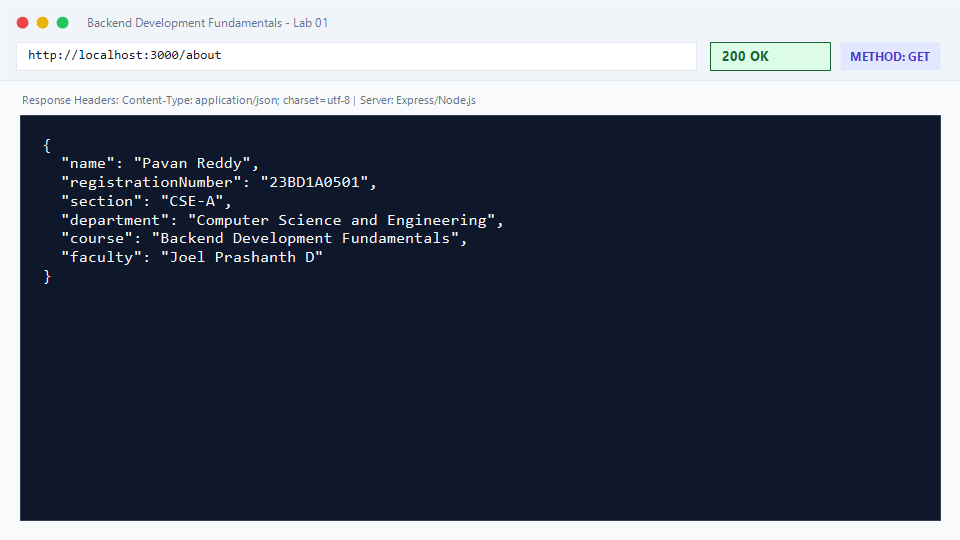
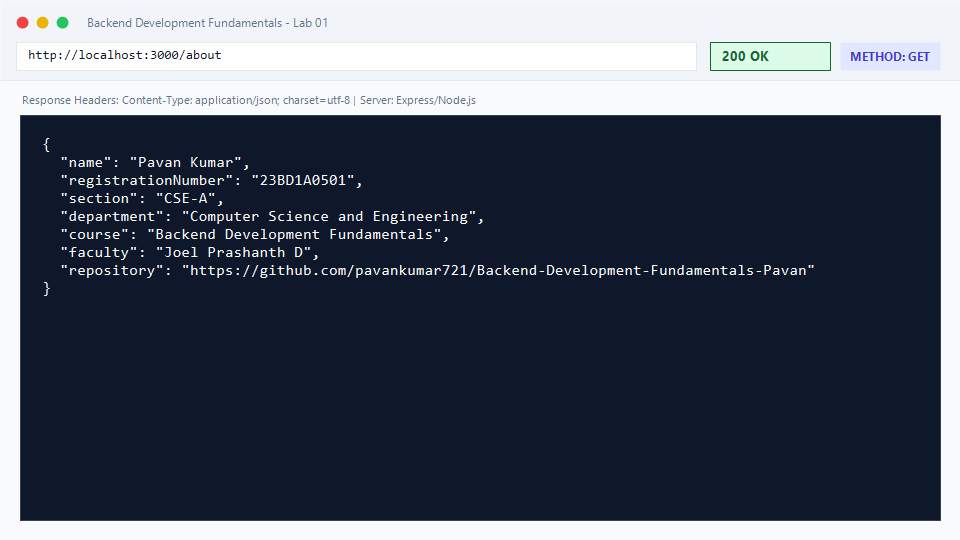
docs: link repository URL and update student details across configs and screenshots

Changed region(s): [[0.0625, 0.2963, 0.8438, 0.5333], [0.0312, 0.5037, 0.0625, 0.5333]]

diff --git a/lab-01/server.js b/lab-01/server.js
@@ -19,12 +19,13 @@ app.get('/', (req, res) => {
 // Route 2: GET /about (JSON with name and section)
 app.get('/about', (req, res) => {
   res.status(200).json({
-    name: 'Pavan Reddy',
+    name: 'Pavan Kumar',
     registrationNumber: '23BD1A0501',
     section: 'CSE-A',
     department: 'Computer Science and Engineering',
     course: 'Backend Development Fundamentals',
-    faculty: 'Joel Prashanth D'
+    faculty: 'Joel Prashanth D',
+    repository: 'https://github.com/pavankumar721/Backend-Development-Fundamentals-Pavan'
   });
 });
 

diff --git a/lab-01/README.md b/lab-01/README.md
@@ -1,11 +1,12 @@
 # Lab 1: Node.js and Express server
 
-**Student Name:** Pavan Reddy  
+**Student Name:** Pavan Kumar  
 **Registration Number:** 23BD1A0501  
 **Section:** CSE-A  
 **Course:** Backend Development Fundamentals (Year II · Term II)  
 **Institution:** Aurora Higher Education and Research Academy  
 **Faculty:** Joel Prashanth D  
+**GitHub Repository:** [https://github.com/pavankumar721/Backend-Development-Fundamentals-Pavan](https://github.com/pavankumar721/Backend-Development-Fundamentals-Pavan)
 
 ---
 
@@ -31,7 +32,7 @@ When initializing a Node.js project using `npm init -y`, a `package.json` manife
 | `main` | The primary entry point script executed when running the package. | Points to `"server.js"`. |
 | `scripts` | A dictionary of terminal shortcut commands executed via `npm run <script>`. | Contains `"start"`, `"start:http"`, and `"dev"`. |
 | `keywords` | An array of string tags used for searching and categorization. | Tagged with `nodejs`, `express`, `backend`. |
-| `author` | The name or contact info of the package creator. | Set to student name (`"Pavan Reddy"`). |
+| `author` | The name or contact info of the package creator. | Set to student name (`"Pavan Kumar"`). |
 | `license` | The legal open-source or proprietary licensing agreement. | Set to `"ISC"`. |
 | `dependencies` | Key-value map of third-party npm packages required at runtime. | Specifies `"express": "^5.3.0"`. |
 
@@ -140,12 +141,13 @@ app.get('/', (req, res) => {
 // Route 2: About info
 app.get('/about', (req, res) => {
   res.status(200).json({
-    name: 'Pavan Reddy',
+    name: 'Pavan Kumar',
     registrationNumber: '23BD1A0501',
     section: 'CSE-A',
     department: 'Computer Science and Engineering',
     course: 'Backend Development Fundamentals',
-    faculty: 'Joel Prashanth D'
+    faculty: 'Joel Prashanth D',
+    repository: 'https://github.com/pavankumar721/Backend-Development-Fundamentals-Pavan'
   });
 });
 

diff --git a/README.md b/README.md
@@ -1,11 +1,12 @@
 # Backend Development Fundamentals - Lab Coursework
 
-**Student Name:** Pavan Reddy  
+**Student Name:** Pavan Kumar  
 **Registration Number:** 23BD1A0501  
 **Section:** CSE-A  
 **Year & Term:** Year II · Term II  
 **Institution:** Aurora Higher Education and Research Academy  
 **Faculty:** Joel Prashanth D  
+**GitHub Repository:** [https://github.com/pavankumar721/Backend-Development-Fundamentals-Pavan](https://github.com/pavankumar721/Backend-Development-Fundamentals-Pavan)
 
 ---
 
